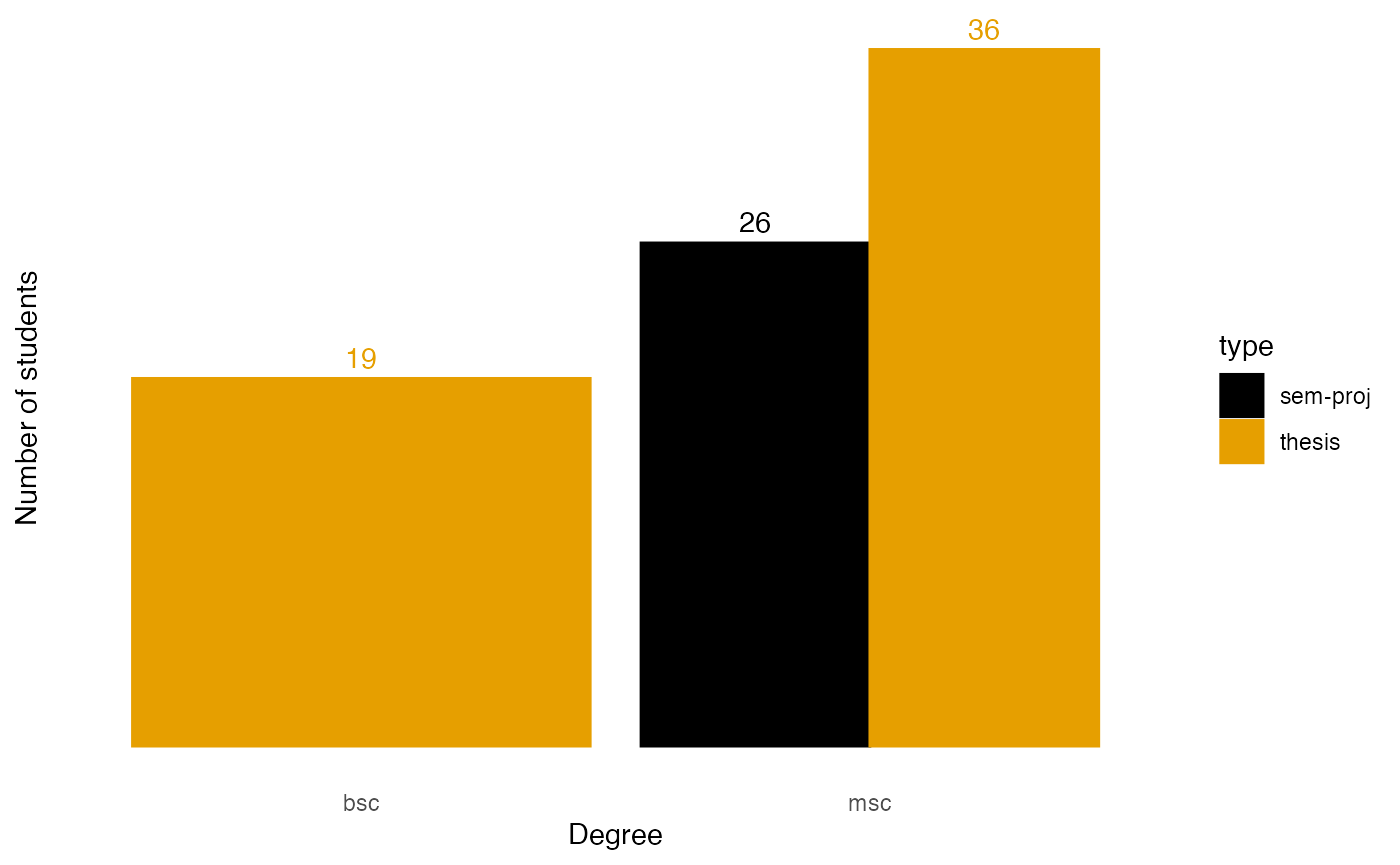
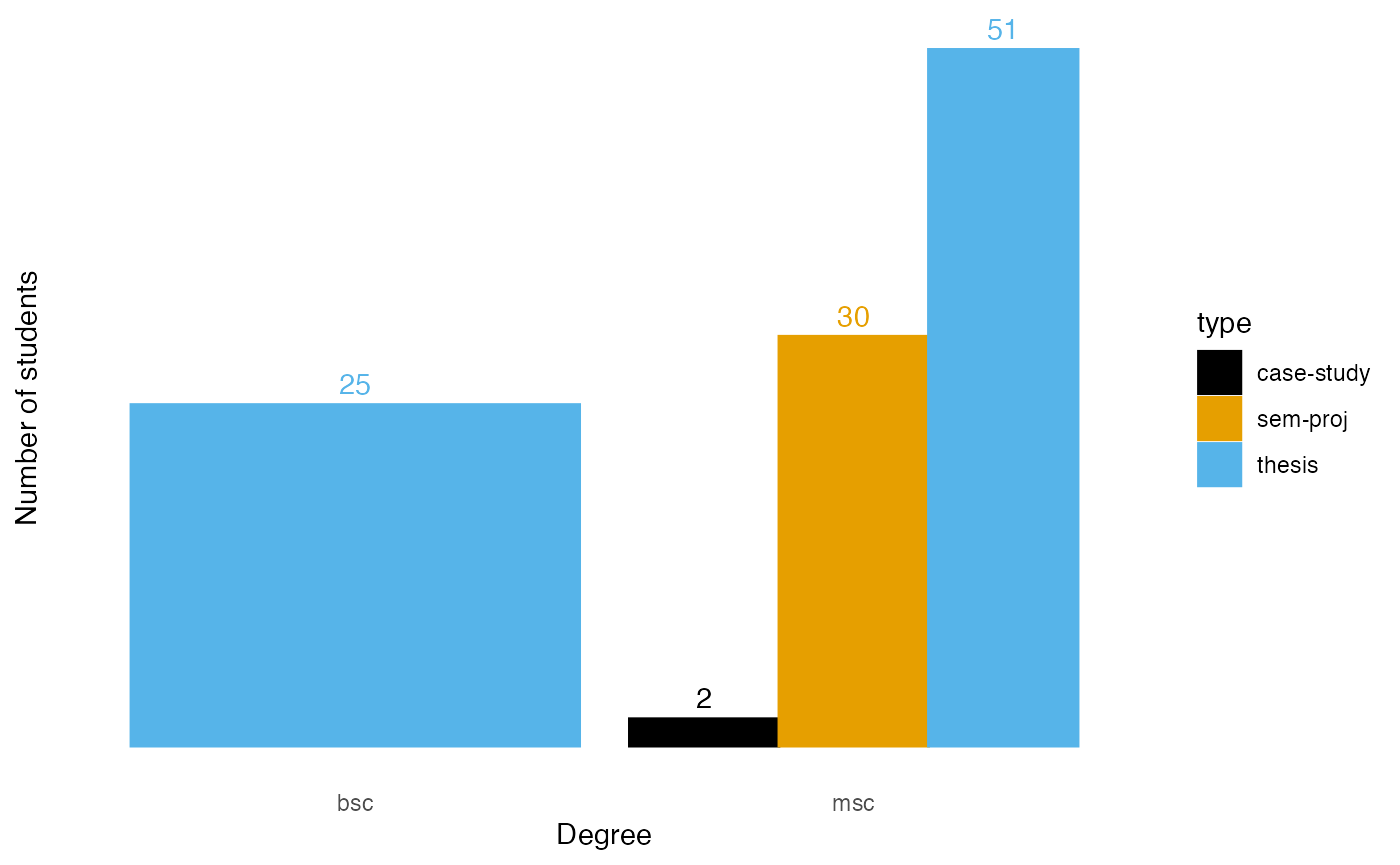
Render pages & build site

diff --git a/docs/index.html b/docs/index.html
@@ -122,19 +122,19 @@
 <h3 id="people">people<a class="anchor" aria-label="anchor" href="#people"></a>
 </h3>
 <p>The dataset <code>people</code> contains data about people that have worked for the group. This includes staff, as well as undergraduate student projects.</p>
-<p>It has 96 observations and 7 variables.</p>
+<p>It has 129 observations and 7 variables.</p>
 <div class="sourceCode" id="cb4"><pre class="downlit sourceCode r">
 <code class="sourceCode R"><span><span class="va">people</span> <span class="op">|&gt;</span> </span>
 <span>  <span class="fu"><a href="https://rdrr.io/r/utils/head.html" class="external-link">head</a></span><span class="op">(</span><span class="fl">3</span><span class="op">)</span> <span class="op">|&gt;</span> </span>
 <span>  <span class="fu">gt</span><span class="fu">::</span><span class="fu"><a href="https://gt.rstudio.com/reference/gt.html" class="external-link">gt</a></span><span class="op">(</span><span class="op">)</span> <span class="op">|&gt;</span></span>
 <span>  <span class="fu">gt</span><span class="fu">::</span><span class="fu"><a href="https://gt.rstudio.com/reference/as_raw_html.html" class="external-link">as_raw_html</a></span><span class="op">(</span><span class="op">)</span></span></code></pre></div>
-<div id="nheqvrzpaf" style="padding-left:0px;padding-right:0px;padding-top:10px;padding-bottom:10px;overflow-x:auto;overflow-y:auto;width:auto;height:auto;">
+<div id="xueveazitd" style="padding-left:0px;padding-right:0px;padding-top:10px;padding-bottom:10px;overflow-x:auto;overflow-y:auto;width:auto;height:auto;">
 
 
 <table class="table gt_table" data-quarto-disable-processing="false" data-quarto-bootstrap="false" style="-webkit-font-smoothing: antialiased; -moz-osx-font-smoothing: grayscale; font-family: system-ui, 'Segoe UI', Roboto, Helvetica, Arial, sans-serif, 'Apple Color Emoji', 'Segoe UI Emoji', 'Segoe UI Symbol', 'Noto Color Emoji'; display: table; border-collapse: collapse; line-height: normal; margin-left: auto; margin-right: auto; color: #333333; font-size: 16px; font-weight: normal; font-style: normal; background-color: #FFFFFF; width: auto; border-top-style: solid; border-top-width: 2px; border-top-color: #A8A8A8; border-right-style: none; border-right-width: 2px; border-right-color: #D3D3D3; border-bottom-style: solid; border-bottom-width: 2px; border-bottom-color: #A8A8A8; border-left-style: none; border-left-width: 2px; border-left-color: #D3D3D3;" bgcolor="#FFFFFF">
 <thead style="border-style: none;"><tr class="gt_col_headings" style="border-style: none; border-top-style: solid; border-top-width: 2px; border-top-color: #D3D3D3; border-bottom-style: solid; border-bottom-width: 2px; border-bottom-color: #D3D3D3; border-left-style: none; border-left-width: 1px; border-left-color: #D3D3D3; border-right-style: none; border-right-width: 1px; border-right-color: #D3D3D3;">
-<th class="gt_col_heading gt_columns_bottom_border gt_left" rowspan="1" colspan="1" scope="col" id="project_id" style="border-style: none; color: #333333; background-color: #FFFFFF; font-size: 100%; font-weight: normal; text-transform: inherit; border-left-style: none; border-left-width: 1px; border-left-color: #D3D3D3; border-right-style: none; border-right-width: 1px; border-right-color: #D3D3D3; vertical-align: bottom; padding-top: 5px; padding-bottom: 6px; padding-left: 5px; padding-right: 5px; overflow-x: hidden; text-align: left;" bgcolor="#FFFFFF" valign="bottom" align="left">
-project_id
+<th class="gt_col_heading gt_columns_bottom_border gt_left" rowspan="1" colspan="1" scope="col" id="title" style="border-style: none; color: #333333; background-color: #FFFFFF; font-size: 100%; font-weight: normal; text-transform: inherit; border-left-style: none; border-left-width: 1px; border-left-color: #D3D3D3; border-right-style: none; border-right-width: 1px; border-right-color: #D3D3D3; vertical-align: bottom; padding-top: 5px; padding-bottom: 6px; padding-left: 5px; padding-right: 5px; overflow-x: hidden; text-align: left;" bgcolor="#FFFFFF" valign="bottom" align="left">
+title
 </th>
 <th class="gt_col_heading gt_columns_bottom_border gt_left" rowspan="1" colspan="1" scope="col" id="degree" style="border-style: none; color: #333333; background-color: #FFFFFF; font-size: 100%; font-weight: normal; text-transform: inherit; border-left-style: none; border-left-width: 1px; border-left-color: #D3D3D3; border-right-style: none; border-right-width: 1px; border-right-color: #D3D3D3; vertical-align: bottom; padding-top: 5px; padding-bottom: 6px; padding-left: 5px; padding-right: 5px; overflow-x: hidden; text-align: left;" bgcolor="#FFFFFF" valign="bottom" align="left">
 degree
@@ -157,8 +157,8 @@ thesis_title
 </tr></thead>
 <tbody class="gt_table_body" style="border-style: none; border-top-style: solid; border-top-width: 2px; border-top-color: #D3D3D3; border-bottom-style: solid; border-bottom-width: 2px; border-bottom-color: #D3D3D3;">
 <tr style="border-style: none;">
-<td headers="project_id" class="gt_row gt_left" style="border-style: none; padding-top: 8px; padding-bottom: 8px; padding-left: 5px; padding-right: 5px; margin: 10px; border-top-style: solid; border-top-width: 1px; border-top-color: #D3D3D3; border-left-style: none; border-left-width: 1px; border-left-color: #D3D3D3; border-right-style: none; border-right-width: 1px; border-right-color: #D3D3D3; vertical-align: middle; overflow-x: hidden; text-align: left;" valign="middle" align="left">
-2021-bsc-thesis-141444
+<td headers="title" class="gt_row gt_left" style="border-style: none; padding-top: 8px; padding-bottom: 8px; padding-left: 5px; padding-right: 5px; margin: 10px; border-top-style: solid; border-top-width: 1px; border-top-color: #D3D3D3; border-left-style: none; border-left-width: 1px; border-left-color: #D3D3D3; border-right-style: none; border-right-width: 1px; border-right-color: #D3D3D3; vertical-align: middle; overflow-x: hidden; text-align: left;" valign="middle" align="left">
+2021-bsc-thesis-225343
 </td>
 <td headers="degree" class="gt_row gt_left" style="border-style: none; padding-top: 8px; padding-bottom: 8px; padding-left: 5px; padding-right: 5px; margin: 10px; border-top-style: solid; border-top-width: 1px; border-top-color: #D3D3D3; border-left-style: none; border-left-width: 1px; border-left-color: #D3D3D3; border-right-style: none; border-right-width: 1px; border-right-color: #D3D3D3; vertical-align: middle; overflow-x: hidden; text-align: left;" valign="middle" align="left">
 bsc
@@ -180,31 +180,31 @@ Self-cleaning Preliminary Screening Mechanisms to Improve Health and Wastewater 
 </td>
 </tr>
 <tr style="border-style: none;">
-<td headers="project_id" class="gt_row gt_left" style="border-style: none; padding-top: 8px; padding-bottom: 8px; padding-left: 5px; padding-right: 5px; margin: 10px; border-top-style: solid; border-top-width: 1px; border-top-color: #D3D3D3; border-left-style: none; border-left-width: 1px; border-left-color: #D3D3D3; border-right-style: none; border-right-width: 1px; border-right-color: #D3D3D3; vertical-align: middle; overflow-x: hidden; text-align: left;" valign="middle" align="left">
-2022-msc-sem-proj-565554
+<td headers="title" class="gt_row gt_left" style="border-style: none; padding-top: 8px; padding-bottom: 8px; padding-left: 5px; padding-right: 5px; margin: 10px; border-top-style: solid; border-top-width: 1px; border-top-color: #D3D3D3; border-left-style: none; border-left-width: 1px; border-left-color: #D3D3D3; border-right-style: none; border-right-width: 1px; border-right-color: #D3D3D3; vertical-align: middle; overflow-x: hidden; text-align: left;" valign="middle" align="left">
+2021-msc-thesis-554324
 </td>
 <td headers="degree" class="gt_row gt_left" style="border-style: none; padding-top: 8px; padding-bottom: 8px; padding-left: 5px; padding-right: 5px; margin: 10px; border-top-style: solid; border-top-width: 1px; border-top-color: #D3D3D3; border-left-style: none; border-left-width: 1px; border-left-color: #D3D3D3; border-right-style: none; border-right-width: 1px; border-right-color: #D3D3D3; vertical-align: middle; overflow-x: hidden; text-align: left;" valign="middle" align="left">
 msc
 </td>
 <td headers="type" class="gt_row gt_left" style="border-style: none; padding-top: 8px; padding-bottom: 8px; padding-left: 5px; padding-right: 5px; margin: 10px; border-top-style: solid; border-top-width: 1px; border-top-color: #D3D3D3; border-left-style: none; border-left-width: 1px; border-left-color: #D3D3D3; border-right-style: none; border-right-width: 1px; border-right-color: #D3D3D3; vertical-align: middle; overflow-x: hidden; text-align: left;" valign="middle" align="left">
-sem-proj
+thesis
 </td>
 <td headers="b_m_student" class="gt_row gt_left" style="border-style: none; padding-top: 8px; padding-bottom: 8px; padding-left: 5px; padding-right: 5px; margin: 10px; border-top-style: solid; border-top-width: 1px; border-top-color: #D3D3D3; border-left-style: none; border-left-width: 1px; border-left-color: #D3D3D3; border-right-style: none; border-right-width: 1px; border-right-color: #D3D3D3; vertical-align: middle; overflow-x: hidden; text-align: left;" valign="middle" align="left">
 yes
 </td>
 <td headers="start_date" class="gt_row gt_right" style="border-style: none; padding-top: 8px; padding-bottom: 8px; padding-left: 5px; padding-right: 5px; margin: 10px; border-top-style: solid; border-top-width: 1px; border-top-color: #D3D3D3; border-left-style: none; border-left-width: 1px; border-left-color: #D3D3D3; border-right-style: none; border-right-width: 1px; border-right-color: #D3D3D3; vertical-align: middle; overflow-x: hidden; text-align: right; font-variant-numeric: tabular-nums;" valign="middle" align="right">
-2022-04-04
+2021-09-19
 </td>
 <td headers="year" class="gt_row gt_right" style="border-style: none; padding-top: 8px; padding-bottom: 8px; padding-left: 5px; padding-right: 5px; margin: 10px; border-top-style: solid; border-top-width: 1px; border-top-color: #D3D3D3; border-left-style: none; border-left-width: 1px; border-left-color: #D3D3D3; border-right-style: none; border-right-width: 1px; border-right-color: #D3D3D3; vertical-align: middle; overflow-x: hidden; text-align: right; font-variant-numeric: tabular-nums;" valign="middle" align="right">
-2022
+2021
 </td>
 <td headers="thesis_title" class="gt_row gt_left" style="border-style: none; padding-top: 8px; padding-bottom: 8px; padding-left: 5px; padding-right: 5px; margin: 10px; border-top-style: solid; border-top-width: 1px; border-top-color: #D3D3D3; border-left-style: none; border-left-width: 1px; border-left-color: #D3D3D3; border-right-style: none; border-right-width: 1px; border-right-color: #D3D3D3; vertical-align: middle; overflow-x: hidden; text-align: left;" valign="middle" align="left">
-The state of open research data publishing practices and policies in the fields of global health engineering
+Barriers to successful data management in the Global South: Case Study of Malawi
 </td>
 </tr>
 <tr style="border-style: none;">
-<td headers="project_id" class="gt_row gt_left" style="border-style: none; padding-top: 8px; padding-bottom: 8px; padding-left: 5px; padding-right: 5px; margin: 10px; border-top-style: solid; border-top-width: 1px; border-top-color: #D3D3D3; border-left-style: none; border-left-width: 1px; border-left-color: #D3D3D3; border-right-style: none; border-right-width: 1px; border-right-color: #D3D3D3; vertical-align: middle; overflow-x: hidden; text-align: left;" valign="middle" align="left">
-2022-bsc-thesis-466263
+<td headers="title" class="gt_row gt_left" style="border-style: none; padding-top: 8px; padding-bottom: 8px; padding-left: 5px; padding-right: 5px; margin: 10px; border-top-style: solid; border-top-width: 1px; border-top-color: #D3D3D3; border-left-style: none; border-left-width: 1px; border-left-color: #D3D3D3; border-right-style: none; border-right-width: 1px; border-right-color: #D3D3D3; vertical-align: middle; overflow-x: hidden; text-align: left;" valign="middle" align="left">
+2022-bsc-thesis-164543
 </td>
 <td headers="degree" class="gt_row gt_left" style="border-style: none; padding-top: 8px; padding-bottom: 8px; padding-left: 5px; padding-right: 5px; margin: 10px; border-top-style: solid; border-top-width: 1px; border-top-color: #D3D3D3; border-left-style: none; border-left-width: 1px; border-left-color: #D3D3D3; border-right-style: none; border-right-width: 1px; border-right-color: #D3D3D3; vertical-align: middle; overflow-x: hidden; text-align: left;" valign="middle" align="left">
 bsc
@@ -216,13 +216,13 @@ thesis
 yes
 </td>
 <td headers="start_date" class="gt_row gt_right" style="border-style: none; padding-top: 8px; padding-bottom: 8px; padding-left: 5px; padding-right: 5px; margin: 10px; border-top-style: solid; border-top-width: 1px; border-top-color: #D3D3D3; border-left-style: none; border-left-width: 1px; border-left-color: #D3D3D3; border-right-style: none; border-right-width: 1px; border-right-color: #D3D3D3; vertical-align: middle; overflow-x: hidden; text-align: right; font-variant-numeric: tabular-nums;" valign="middle" align="right">
-2022-03-11
+2022-03-25
 </td>
 <td headers="year" class="gt_row gt_right" style="border-style: none; padding-top: 8px; padding-bottom: 8px; padding-left: 5px; padding-right: 5px; margin: 10px; border-top-style: solid; border-top-width: 1px; border-top-color: #D3D3D3; border-left-style: none; border-left-width: 1px; border-left-color: #D3D3D3; border-right-style: none; border-right-width: 1px; border-right-color: #D3D3D3; vertical-align: middle; overflow-x: hidden; text-align: right; font-variant-numeric: tabular-nums;" valign="middle" align="right">
 2022
 </td>
 <td headers="thesis_title" class="gt_row gt_left" style="border-style: none; padding-top: 8px; padding-bottom: 8px; padding-left: 5px; padding-right: 5px; margin: 10px; border-top-style: solid; border-top-width: 1px; border-top-color: #D3D3D3; border-left-style: none; border-left-width: 1px; border-left-color: #D3D3D3; border-right-style: none; border-right-width: 1px; border-right-color: #D3D3D3; vertical-align: middle; overflow-x: hidden; text-align: left;" valign="middle" align="left">
-Feasibility of waste maize husk valorization as a plastic plate replacement in Durban, South Africa
+The development of a recycled plastic wheel for cardboard collector trollies - improving the working conditions of informal cardboard recyclers in Durban, South Africa
 </td>
 </tr>
 </tbody>
@@ -333,8 +333,8 @@ Title of the thesis.
 <span></span>
 <span><span class="va">undergrad_students</span> <span class="op">&lt;-</span> <span class="va">people</span> <span class="op">|&gt;</span> </span>
 <span>  <span class="fu"><a href="https://dplyr.tidyverse.org/reference/filter.html" class="external-link">filter</a></span><span class="op">(</span><span class="va">b_m_student</span> <span class="op">==</span> <span class="st">"yes"</span><span class="op">)</span> <span class="op">|&gt;</span></span>
-<span>  <span class="fu"><a href="https://dplyr.tidyverse.org/reference/filter.html" class="external-link">filter</a></span><span class="op">(</span><span class="op">!</span><span class="fu"><a href="https://rdrr.io/r/base/NA.html" class="external-link">is.na</a></span><span class="op">(</span><span class="va">project_id</span><span class="op">)</span><span class="op">)</span> </span></code></pre></div>
-<p>So far, GHE has supervised 81 projects of which 19 were done by BSc and 62 by MSc students.</p>
+<span>  <span class="fu"><a href="https://dplyr.tidyverse.org/reference/filter.html" class="external-link">filter</a></span><span class="op">(</span><span class="op">!</span><span class="fu"><a href="https://rdrr.io/r/base/NA.html" class="external-link">is.na</a></span><span class="op">(</span><span class="va">title</span><span class="op">)</span><span class="op">)</span> </span></code></pre></div>
+<p>So far, GHE has supervised 108 projects of which 25 were done by BSc and 83 by MSc students.</p>
 <div class="sourceCode" id="cb6"><pre class="downlit sourceCode r">
 <code class="sourceCode R"><span><span class="va">undergrad_students</span> <span class="op">|&gt;</span> </span>
 <span>  <span class="fu"><a href="https://dplyr.tidyverse.org/reference/count.html" class="external-link">count</a></span><span class="op">(</span><span class="va">degree</span>, <span class="va">year</span><span class="op">)</span> <span class="op">|&gt;</span> </span>
@@ -366,8 +366,7 @@ Title of the thesis.
 <span><span class="co">#&gt; To cite package 'ghedata' in publications use:</span></span>
 <span><span class="co">#&gt; </span></span>
 <span><span class="co">#&gt;   Schöbitz L (2024). _ghedata: What the Package Does (One Line, Title</span></span>
-<span><span class="co">#&gt;   Case)_. R package version 0.0.0.9000, commit</span></span>
-<span><span class="co">#&gt;   c7010eceb5a6d1d0bfbdc41a9682107e26b77c51,</span></span>
+<span><span class="co">#&gt;   Case)_. R package version 0.0.0.9000,</span></span>
 <span><span class="co">#&gt;   &lt;https://github.com/global-health-engineering/ghedata&gt;.</span></span>
 <span><span class="co">#&gt; </span></span>
 <span><span class="co">#&gt; A BibTeX entry for LaTeX users is</span></span>
@@ -376,7 +375,7 @@ Title of the thesis.
 <span><span class="co">#&gt;     title = {ghedata: What the Package Does (One Line, Title Case)},</span></span>
 <span><span class="co">#&gt;     author = {Lars Schöbitz},</span></span>
 <span><span class="co">#&gt;     year = {2024},</span></span>
-<span><span class="co">#&gt;     note = {R package version 0.0.0.9000, commit c7010eceb5a6d1d0bfbdc41a9682107e26b77c51},</span></span>
+<span><span class="co">#&gt;     note = {R package version 0.0.0.9000},</span></span>
 <span><span class="co">#&gt;     url = {https://github.com/global-health-engineering/ghedata},</span></span>
 <span><span class="co">#&gt;   }</span></span></code></pre></div>
 </div>

diff --git a/docs/articles/examples.html b/docs/articles/examples.html
@@ -89,9 +89,9 @@ supervised so far.</p>
 <div class="sourceCode" id="cb2"><pre class="downlit sourceCode r">
 <code class="sourceCode R"><span><span class="va">undergrad_students</span> <span class="op">&lt;-</span> <span class="va">people</span> <span class="op">|&gt;</span> </span>
 <span>  <span class="fu"><a href="https://dplyr.tidyverse.org/reference/filter.html" class="external-link">filter</a></span><span class="op">(</span><span class="va">b_m_student</span> <span class="op">==</span> <span class="st">"yes"</span><span class="op">)</span> <span class="op">|&gt;</span></span>
-<span>  <span class="fu"><a href="https://dplyr.tidyverse.org/reference/filter.html" class="external-link">filter</a></span><span class="op">(</span><span class="op">!</span><span class="fu"><a href="https://rdrr.io/r/base/NA.html" class="external-link">is.na</a></span><span class="op">(</span><span class="va">project_id</span><span class="op">)</span><span class="op">)</span> </span></code></pre></div>
-<p>So far, GHE has supervised 81 projects of which 19 were done by BSc
-and 62 by MSc students.</p>
+<span>  <span class="fu"><a href="https://dplyr.tidyverse.org/reference/filter.html" class="external-link">filter</a></span><span class="op">(</span><span class="op">!</span><span class="fu"><a href="https://rdrr.io/r/base/NA.html" class="external-link">is.na</a></span><span class="op">(</span><span class="va">title</span><span class="op">)</span><span class="op">)</span> </span></code></pre></div>
+<p>So far, GHE has supervised 108 projects of which 25 were done by BSc
+and 83 by MSc students.</p>
 <div class="sourceCode" id="cb3"><pre class="downlit sourceCode r">
 <code class="sourceCode R"><span><span class="va">undergrad_students</span> <span class="op">|&gt;</span> </span>
 <span>  <span class="fu"><a href="https://dplyr.tidyverse.org/reference/count.html" class="external-link">count</a></span><span class="op">(</span><span class="va">degree</span><span class="op">)</span> <span class="op">|&gt;</span> </span>

diff --git a/docs/authors.html b/docs/authors.html
@@ -59,14 +59,14 @@
       <h2 id="citation">Citation</h2>
       <p><small class="dont-index">Source: <a href="https://github.com/global-health-engineering/ghedata/blob/HEAD/DESCRIPTION" class="external-link"><code>DESCRIPTION</code></a></small></p>
 
-      <p>Schöbitz L (2024).
+      <p>Schöbitz L (2025).
 <em>ghedata: What the Package Does (One Line, Title Case)</em>.
 R package version 0.0.0.9000, <a href="https://github.com/global-health-engineering/ghedata" class="external-link">https://github.com/global-health-engineering/ghedata</a>. 
 </p>
       <pre>@Manual{,
   title = {ghedata: What the Package Does (One Line, Title Case)},
   author = {Lars Schöbitz},
-  year = {2024},
+  year = {2025},
   note = {R package version 0.0.0.9000},
   url = {https://github.com/global-health-engineering/ghedata},
 }</pre>

diff --git a/README.md b/README.md
@@ -63,7 +63,7 @@ library(ghedata)
 The dataset `people` contains data about people that have worked for the
 group. This includes staff, as well as undergraduate student projects.
 
-It has 96 observations and 7 variables.
+It has 129 observations and 7 variables.
 
 ``` r
 people |> 
@@ -72,11 +72,11 @@ people |>
   gt::as_raw_html()
 ```
 
-<div id="nheqvrzpaf" style="padding-left:0px;padding-right:0px;padding-top:10px;padding-bottom:10px;overflow-x:auto;overflow-y:auto;width:auto;height:auto;">
+<div id="xueveazitd" style="padding-left:0px;padding-right:0px;padding-top:10px;padding-bottom:10px;overflow-x:auto;overflow-y:auto;width:auto;height:auto;">
   &#10;  <table class="gt_table" data-quarto-disable-processing="false" data-quarto-bootstrap="false" style="-webkit-font-smoothing: antialiased; -moz-osx-font-smoothing: grayscale; font-family: system-ui, 'Segoe UI', Roboto, Helvetica, Arial, sans-serif, 'Apple Color Emoji', 'Segoe UI Emoji', 'Segoe UI Symbol', 'Noto Color Emoji'; display: table; border-collapse: collapse; line-height: normal; margin-left: auto; margin-right: auto; color: #333333; font-size: 16px; font-weight: normal; font-style: normal; background-color: #FFFFFF; width: auto; border-top-style: solid; border-top-width: 2px; border-top-color: #A8A8A8; border-right-style: none; border-right-width: 2px; border-right-color: #D3D3D3; border-bottom-style: solid; border-bottom-width: 2px; border-bottom-color: #A8A8A8; border-left-style: none; border-left-width: 2px; border-left-color: #D3D3D3;" bgcolor="#FFFFFF">
   <thead style="border-style: none;">
     <tr class="gt_col_headings" style="border-style: none; border-top-style: solid; border-top-width: 2px; border-top-color: #D3D3D3; border-bottom-style: solid; border-bottom-width: 2px; border-bottom-color: #D3D3D3; border-left-style: none; border-left-width: 1px; border-left-color: #D3D3D3; border-right-style: none; border-right-width: 1px; border-right-color: #D3D3D3;">
-      <th class="gt_col_heading gt_columns_bottom_border gt_left" rowspan="1" colspan="1" scope="col" id="project_id" style="border-style: none; color: #333333; background-color: #FFFFFF; font-size: 100%; font-weight: normal; text-transform: inherit; border-left-style: none; border-left-width: 1px; border-left-color: #D3D3D3; border-right-style: none; border-right-width: 1px; border-right-color: #D3D3D3; vertical-align: bottom; padding-top: 5px; padding-bottom: 6px; padding-left: 5px; padding-right: 5px; overflow-x: hidden; text-align: left;" bgcolor="#FFFFFF" valign="bottom" align="left">project_id</th>
+      <th class="gt_col_heading gt_columns_bottom_border gt_left" rowspan="1" colspan="1" scope="col" id="title" style="border-style: none; color: #333333; background-color: #FFFFFF; font-size: 100%; font-weight: normal; text-transform: inherit; border-left-style: none; border-left-width: 1px; border-left-color: #D3D3D3; border-right-style: none; border-right-width: 1px; border-right-color: #D3D3D3; vertical-align: bottom; padding-top: 5px; padding-bottom: 6px; padding-left: 5px; padding-right: 5px; overflow-x: hidden; text-align: left;" bgcolor="#FFFFFF" valign="bottom" align="left">title</th>
       <th class="gt_col_heading gt_columns_bottom_border gt_left" rowspan="1" colspan="1" scope="col" id="degree" style="border-style: none; color: #333333; background-color: #FFFFFF; font-size: 100%; font-weight: normal; text-transform: inherit; border-left-style: none; border-left-width: 1px; border-left-color: #D3D3D3; border-right-style: none; border-right-width: 1px; border-right-color: #D3D3D3; vertical-align: bottom; padding-top: 5px; padding-bottom: 6px; padding-left: 5px; padding-right: 5px; overflow-x: hidden; text-align: left;" bgcolor="#FFFFFF" valign="bottom" align="left">degree</th>
       <th class="gt_col_heading gt_columns_bottom_border gt_left" rowspan="1" colspan="1" scope="col" id="type" style="border-style: none; color: #333333; background-color: #FFFFFF; font-size: 100%; font-weight: normal; text-transform: inherit; border-left-style: none; border-left-width: 1px; border-left-color: #D3D3D3; border-right-style: none; border-right-width: 1px; border-right-color: #D3D3D3; vertical-align: bottom; padding-top: 5px; padding-bottom: 6px; padding-left: 5px; padding-right: 5px; overflow-x: hidden; text-align: left;" bgcolor="#FFFFFF" valign="bottom" align="left">type</th>
       <th class="gt_col_heading gt_columns_bottom_border gt_left" rowspan="1" colspan="1" scope="col" id="b_m_student" style="border-style: none; color: #333333; background-color: #FFFFFF; font-size: 100%; font-weight: normal; text-transform: inherit; border-left-style: none; border-left-width: 1px; border-left-color: #D3D3D3; border-right-style: none; border-right-width: 1px; border-right-color: #D3D3D3; vertical-align: bottom; padding-top: 5px; padding-bottom: 6px; padding-left: 5px; padding-right: 5px; overflow-x: hidden; text-align: left;" bgcolor="#FFFFFF" valign="bottom" align="left">b_m_student</th>
@@ -86,27 +86,27 @@ people |>
     </tr>
   </thead>
   <tbody class="gt_table_body" style="border-style: none; border-top-style: solid; border-top-width: 2px; border-top-color: #D3D3D3; border-bottom-style: solid; border-bottom-width: 2px; border-bottom-color: #D3D3D3;">
-    <tr style="border-style: none;"><td headers="project_id" class="gt_row gt_left" style="border-style: none; padding-top: 8px; padding-bottom: 8px; padding-left: 5px; padding-right: 5px; margin: 10px; border-top-style: solid; border-top-width: 1px; border-top-color: #D3D3D3; border-left-style: none; border-left-width: 1px; border-left-color: #D3D3D3; border-right-style: none; border-right-width: 1px; border-right-color: #D3D3D3; vertical-align: middle; overflow-x: hidden; text-align: left;" valign="middle" align="left">2021-bsc-thesis-141444</td>
+    <tr style="border-style: none;"><td headers="title" class="gt_row gt_left" style="border-style: none; padding-top: 8px; padding-bottom: 8px; padding-left: 5px; padding-right: 5px; margin: 10px; border-top-style: solid; border-top-width: 1px; border-top-color: #D3D3D3; border-left-style: none; border-left-width: 1px; border-left-color: #D3D3D3; border-right-style: none; border-right-width: 1px; border-right-color: #D3D3D3; vertical-align: middle; overflow-x: hidden; text-align: left;" valign="middle" align="left">2021-bsc-thesis-225343</td>
 <td headers="degree" class="gt_row gt_left" style="border-style: none; padding-top: 8px; padding-bottom: 8px; padding-left: 5px; padding-right: 5px; margin: 10px; border-top-style: solid; border-top-width: 1px; border-top-color: #D3D3D3; border-left-style: none; border-left-width: 1px; border-left-color: #D3D3D3; border-right-style: none; border-right-width: 1px; border-right-color: #D3D3D3; vertical-align: middle; overflow-x: hidden; text-align: left;" valign="middle" align="left">bsc</td>
 <td headers="type" class="gt_row gt_left" style="border-style: none; padding-top: 8px; padding-bottom: 8px; padding-left: 5px; padding-right: 5px; margin: 10px; border-top-style: solid; border-top-width: 1px; border-top-color: #D3D3D3; border-left-style: none; border-left-width: 1px; border-left-color: #D3D3D3; border-right-style: none; border-right-width: 1px; border-right-color: #D3D3D3; vertical-align: middle; overflow-x: hidden; text-align: left;" valign="middle" align="left">thesis</td>
 <td headers="b_m_student" class="gt_row gt_left" style="border-style: none; padding-top: 8px; padding-bottom: 8px; padding-left: 5px; padding-right: 5px; margin: 10px; border-top-style: solid; border-top-width: 1px; border-top-color: #D3D3D3; border-left-style: none; border-left-width: 1px; border-left-color: #D3D3D3; border-right-style: none; border-right-width: 1px; border-right-color: #D3D3D3; vertical-align: middle; overflow-x: hidden; text-align: left;" valign="middle" align="left">yes</td>
 <td headers="start_date" class="gt_row gt_right" style="border-style: none; padding-top: 8px; padding-bottom: 8px; padding-left: 5px; padding-right: 5px; margin: 10px; border-top-style: solid; border-top-width: 1px; border-top-color: #D3D3D3; border-left-style: none; border-left-width: 1px; border-left-color: #D3D3D3; border-right-style: none; border-right-width: 1px; border-right-color: #D3D3D3; vertical-align: middle; overflow-x: hidden; text-align: right; font-variant-numeric: tabular-nums;" valign="middle" align="right">2021-02-01</td>
 <td headers="year" class="gt_row gt_right" style="border-style: none; padding-top: 8px; padding-bottom: 8px; padding-left: 5px; padding-right: 5px; margin: 10px; border-top-style: solid; border-top-width: 1px; border-top-color: #D3D3D3; border-left-style: none; border-left-width: 1px; border-left-color: #D3D3D3; border-right-style: none; border-right-width: 1px; border-right-color: #D3D3D3; vertical-align: middle; overflow-x: hidden; text-align: right; font-variant-numeric: tabular-nums;" valign="middle" align="right">2021</td>
 <td headers="thesis_title" class="gt_row gt_left" style="border-style: none; padding-top: 8px; padding-bottom: 8px; padding-left: 5px; padding-right: 5px; margin: 10px; border-top-style: solid; border-top-width: 1px; border-top-color: #D3D3D3; border-left-style: none; border-left-width: 1px; border-left-color: #D3D3D3; border-right-style: none; border-right-width: 1px; border-right-color: #D3D3D3; vertical-align: middle; overflow-x: hidden; text-align: left;" valign="middle" align="left">Self-cleaning Preliminary Screening Mechanisms to Improve Health and Wastewater Treatment Efficiency in Low-income Countries</td></tr>
-    <tr style="border-style: none;"><td headers="project_id" class="gt_row gt_left" style="border-style: none; padding-top: 8px; padding-bottom: 8px; padding-left: 5px; padding-right: 5px; margin: 10px; border-top-style: solid; border-top-width: 1px; border-top-color: #D3D3D3; border-left-style: none; border-left-width: 1px; border-left-color: #D3D3D3; border-right-style: none; border-right-width: 1px; border-right-color: #D3D3D3; vertical-align: middle; overflow-x: hidden; text-align: left;" valign="middle" align="left">2022-msc-sem-proj-565554</td>
+    <tr style="border-style: none;"><td headers="title" class="gt_row gt_left" style="border-style: none; padding-top: 8px; padding-bottom: 8px; padding-left: 5px; padding-right: 5px; margin: 10px; border-top-style: solid; border-top-width: 1px; border-top-color: #D3D3D3; border-left-style: none; border-left-width: 1px; border-left-color: #D3D3D3; border-right-style: none; border-right-width: 1px; border-right-color: #D3D3D3; vertical-align: middle; overflow-x: hidden; text-align: left;" valign="middle" align="left">2021-msc-thesis-554324</td>
 <td headers="degree" class="gt_row gt_left" style="border-style: none; padding-top: 8px; padding-bottom: 8px; padding-left: 5px; padding-right: 5px; margin: 10px; border-top-style: solid; border-top-width: 1px; border-top-color: #D3D3D3; border-left-style: none; border-left-width: 1px; border-left-color: #D3D3D3; border-right-style: none; border-right-width: 1px; border-right-color: #D3D3D3; vertical-align: middle; overflow-x: hidden; text-align: left;" valign="middle" align="left">msc</td>
-<td headers="type" class="gt_row gt_left" style="border-style: none; padding-top: 8px; padding-bottom: 8px; padding-left: 5px; padding-right: 5px; margin: 10px; border-top-style: solid; border-top-width: 1px; border-top-color: #D3D3D3; border-left-style: none; border-left-width: 1px; border-left-color: #D3D3D3; border-right-style: none; border-right-width: 1px; border-right-color: #D3D3D3; vertical-align: middle; overflow-x: hidden; text-align: left;" valign="middle" align="left">sem-proj</td>
+<td headers="type" class="gt_row gt_left" style="border-style: none; padding-top: 8px; padding-bottom: 8px; padding-left: 5px; padding-right: 5px; margin: 10px; border-top-style: solid; border-top-width: 1px; border-top-color: #D3D3D3; border-left-style: none; border-left-width: 1px; border-left-color: #D3D3D3; border-right-style: none; border-right-width: 1px; border-right-color: #D3D3D3; vertical-align: middle; overflow-x: hidden; text-align: left;" valign="middle" align="left">thesis</td>
 <td headers="b_m_student" class="gt_row gt_left" style="border-style: none; padding-top: 8px; padding-bottom: 8px; padding-left: 5px; padding-right: 5px; margin: 10px; border-top-style: solid; border-top-width: 1px; border-top-color: #D3D3D3; border-left-style: none; border-left-width: 1px; border-left-color: #D3D3D3; border-right-style: none; border-right-width: 1px; border-right-color: #D3D3D3; vertical-align: middle; overflow-x: hidden; text-align: left;" valign="middle" align="left">yes</td>
-<td headers="start_date" class="gt_row gt_right" style="border-style: none; padding-top: 8px; padding-bottom: 8px; padding-left: 5px; padding-right: 5px; margin: 10px; border-top-style: solid; border-top-width: 1px; border-top-color: #D3D3D3; border-left-style: none; border-left-width: 1px; border-left-color: #D3D3D3; border-right-style: none; border-right-width: 1px; border-right-color: #D3D3D3; vertical-align: middle; overflow-x: hidden; text-align: right; font-variant-numeric: tabular-nums;" valign="middle" align="right">2022-04-04</td>
-<td headers="year" class="gt_row gt_right" style="border-style: none; padding-top: 8px; padding-bottom: 8px; padding-left: 5px; padding-right: 5px; margin: 10px; border-top-style: solid; border-top-width: 1px; border-top-color: #D3D3D3; border-left-style: none; border-left-width: 1px; border-left-color: #D3D3D3; border-right-style: none; border-right-width: 1px; border-right-color: #D3D3D3; vertical-align: middle; overflow-x: hidden; text-align: right; font-variant-numeric: tabular-nums;" valign="middle" align="right">2022</td>
-<td headers="thesis_title" class="gt_row gt_left" style="border-style: none; padding-top: 8px; padding-bottom: 8px; padding-left: 5px; padding-right: 5px; margin: 10px; border-top-style: solid; border-top-width: 1px; border-top-color: #D3D3D3; border-left-style: none; border-left-width: 1px; border-left-color: #D3D3D3; border-right-style: none; border-right-width: 1px; border-right-color: #D3D3D3; vertical-align: middle; overflow-x: hidden; text-align: left;" valign="middle" align="left">The state of open research data publishing practices and policies in the fields of global health engineering</td></tr>
-    <tr style="border-style: none;"><td headers="project_id" class="gt_row gt_left" style="border-style: none; padding-top: 8px; padding-bottom: 8px; padding-left: 5px; padding-right: 5px; margin: 10px; border-top-style: solid; border-top-width: 1px; border-top-color: #D3D3D3; border-left-style: none; border-left-width: 1px; border-left-color: #D3D3D3; border-right-style: none; border-right-width: 1px; border-right-color: #D3D3D3; vertical-align: middle; overflow-x: hidden; text-align: left;" valign="middle" align="left">2022-bsc-thesis-466263</td>
+<td headers="start_date" class="gt_row gt_right" style="border-style: none; padding-top: 8px; padding-bottom: 8px; padding-left: 5px; padding-right: 5px; margin: 10px; border-top-style: solid; border-top-width: 1px; border-top-color: #D3D3D3; border-left-style: none; border-left-width: 1px; border-left-color: #D3D3D3; border-right-style: none; border-right-width: 1px; border-right-color: #D3D3D3; vertical-align: middle; overflow-x: hidden; text-align: right; font-variant-numeric: tabular-nums;" valign="middle" align="right">2021-09-19</td>
+<td headers="year" class="gt_row gt_right" style="border-style: none; padding-top: 8px; padding-bottom: 8px; padding-left: 5px; padding-right: 5px; margin: 10px; border-top-style: solid; border-top-width: 1px; border-top-color: #D3D3D3; border-left-style: none; border-left-width: 1px; border-left-color: #D3D3D3; border-right-style: none; border-right-width: 1px; border-right-color: #D3D3D3; vertical-align: middle; overflow-x: hidden; text-align: right; font-variant-numeric: tabular-nums;" valign="middle" align="right">2021</td>
+<td headers="thesis_title" class="gt_row gt_left" style="border-style: none; padding-top: 8px; padding-bottom: 8px; padding-left: 5px; padding-right: 5px; margin: 10px; border-top-style: solid; border-top-width: 1px; border-top-color: #D3D3D3; border-left-style: none; border-left-width: 1px; border-left-color: #D3D3D3; border-right-style: none; border-right-width: 1px; border-right-color: #D3D3D3; vertical-align: middle; overflow-x: hidden; text-align: left;" valign="middle" align="left">Barriers to successful data management in the Global South: Case Study of Malawi</td></tr>
+    <tr style="border-style: none;"><td headers="title" class="gt_row gt_left" style="border-style: none; padding-top: 8px; padding-bottom: 8px; padding-left: 5px; padding-right: 5px; margin: 10px; border-top-style: solid; border-top-width: 1px; border-top-color: #D3D3D3; border-left-style: none; border-left-width: 1px; border-left-color: #D3D3D3; border-right-style: none; border-right-width: 1px; border-right-color: #D3D3D3; vertical-align: middle; overflow-x: hidden; text-align: left;" valign="middle" align="left">2022-bsc-thesis-164543</td>
 <td headers="degree" class="gt_row gt_left" style="border-style: none; padding-top: 8px; padding-bottom: 8px; padding-left: 5px; padding-right: 5px; margin: 10px; border-top-style: solid; border-top-width: 1px; border-top-color: #D3D3D3; border-left-style: none; border-left-width: 1px; border-left-color: #D3D3D3; border-right-style: none; border-right-width: 1px; border-right-color: #D3D3D3; vertical-align: middle; overflow-x: hidden; text-align: left;" valign="middle" align="left">bsc</td>
 <td headers="type" class="gt_row gt_left" style="border-style: none; padding-top: 8px; padding-bottom: 8px; padding-left: 5px; padding-right: 5px; margin: 10px; border-top-style: solid; border-top-width: 1px; border-top-color: #D3D3D3; border-left-style: none; border-left-width: 1px; border-left-color: #D3D3D3; border-right-style: none; border-right-width: 1px; border-right-color: #D3D3D3; vertical-align: middle; overflow-x: hidden; text-align: left;" valign="middle" align="left">thesis</td>
 <td headers="b_m_student" class="gt_row gt_left" style="border-style: none; padding-top: 8px; padding-bottom: 8px; padding-left: 5px; padding-right: 5px; margin: 10px; border-top-style: solid; border-top-width: 1px; border-top-color: #D3D3D3; border-left-style: none; border-left-width: 1px; border-left-color: #D3D3D3; border-right-style: none; border-right-width: 1px; border-right-color: #D3D3D3; vertical-align: middle; overflow-x: hidden; text-align: left;" valign="middle" align="left">yes</td>
-<td headers="start_date" class="gt_row gt_right" style="border-style: none; padding-top: 8px; padding-bottom: 8px; padding-left: 5px; padding-right: 5px; margin: 10px; border-top-style: solid; border-top-width: 1px; border-top-color: #D3D3D3; border-left-style: none; border-left-width: 1px; border-left-color: #D3D3D3; border-right-style: none; border-right-width: 1px; border-right-color: #D3D3D3; vertical-align: middle; overflow-x: hidden; text-align: right; font-variant-numeric: tabular-nums;" valign="middle" align="right">2022-03-11</td>
+<td headers="start_date" class="gt_row gt_right" style="border-style: none; padding-top: 8px; padding-bottom: 8px; padding-left: 5px; padding-right: 5px; margin: 10px; border-top-style: solid; border-top-width: 1px; border-top-color: #D3D3D3; border-left-style: none; border-left-width: 1px; border-left-color: #D3D3D3; border-right-style: none; border-right-width: 1px; border-right-color: #D3D3D3; vertical-align: middle; overflow-x: hidden; text-align: right; font-variant-numeric: tabular-nums;" valign="middle" align="right">2022-03-25</td>
 <td headers="year" class="gt_row gt_right" style="border-style: none; padding-top: 8px; padding-bottom: 8px; padding-left: 5px; padding-right: 5px; margin: 10px; border-top-style: solid; border-top-width: 1px; border-top-color: #D3D3D3; border-left-style: none; border-left-width: 1px; border-left-color: #D3D3D3; border-right-style: none; border-right-width: 1px; border-right-color: #D3D3D3; vertical-align: middle; overflow-x: hidden; text-align: right; font-variant-numeric: tabular-nums;" valign="middle" align="right">2022</td>
-<td headers="thesis_title" class="gt_row gt_left" style="border-style: none; padding-top: 8px; padding-bottom: 8px; padding-left: 5px; padding-right: 5px; margin: 10px; border-top-style: solid; border-top-width: 1px; border-top-color: #D3D3D3; border-left-style: none; border-left-width: 1px; border-left-color: #D3D3D3; border-right-style: none; border-right-width: 1px; border-right-color: #D3D3D3; vertical-align: middle; overflow-x: hidden; text-align: left;" valign="middle" align="left">Feasibility of waste maize husk valorization as a plastic plate replacement in Durban, South Africa</td></tr>
+<td headers="thesis_title" class="gt_row gt_left" style="border-style: none; padding-top: 8px; padding-bottom: 8px; padding-left: 5px; padding-right: 5px; margin: 10px; border-top-style: solid; border-top-width: 1px; border-top-color: #D3D3D3; border-left-style: none; border-left-width: 1px; border-left-color: #D3D3D3; border-right-style: none; border-right-width: 1px; border-right-color: #D3D3D3; vertical-align: middle; overflow-x: hidden; text-align: left;" valign="middle" align="left">The development of a recycled plastic wheel for cardboard collector trollies - improving the working conditions of informal cardboard recyclers in Durban, South Africa</td></tr>
   </tbody>
   &#10;  
 </table>
@@ -292,11 +292,11 @@ library(ghedata)
 
 undergrad_students <- people |> 
   filter(b_m_student == "yes") |>
-  filter(!is.na(project_id)) 
+  filter(!is.na(title)) 
 ```
 
-So far, GHE has supervised 81 projects of which 19 were done by BSc and
-62 by MSc students.
+So far, GHE has supervised 108 projects of which 25 were done by BSc and
+83 by MSc students.
 
 ``` r
 undergrad_students |> 
@@ -331,8 +331,7 @@ citation("ghedata")
 #> To cite package 'ghedata' in publications use:
 #> 
 #>   Schöbitz L (2024). _ghedata: What the Package Does (One Line, Title
-#>   Case)_. R package version 0.0.0.9000, commit
-#>   c7010eceb5a6d1d0bfbdc41a9682107e26b77c51,
+#>   Case)_. R package version 0.0.0.9000,
 #>   <https://github.com/global-health-engineering/ghedata>.
 #> 
 #> A BibTeX entry for LaTeX users is
@@ -341,7 +340,7 @@ citation("ghedata")
 #>     title = {ghedata: What the Package Does (One Line, Title Case)},
 #>     author = {Lars Schöbitz},
 #>     year = {2024},
-#>     note = {R package version 0.0.0.9000, commit c7010eceb5a6d1d0bfbdc41a9682107e26b77c51},
+#>     note = {R package version 0.0.0.9000},
 #>     url = {https://github.com/global-health-engineering/ghedata},
 #>   }
 ```
